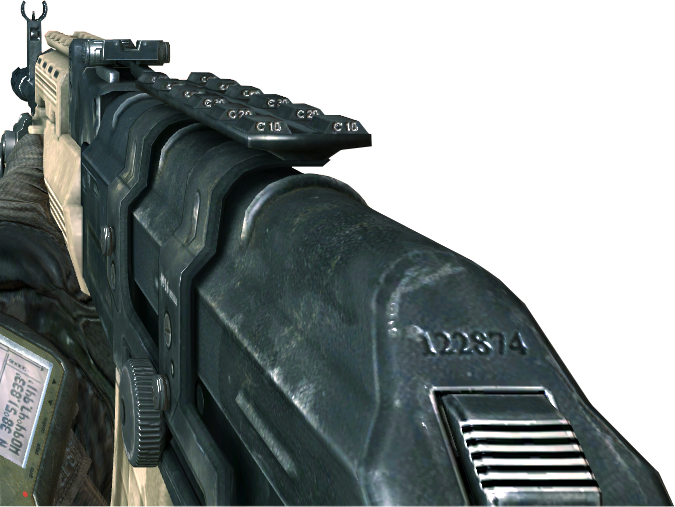
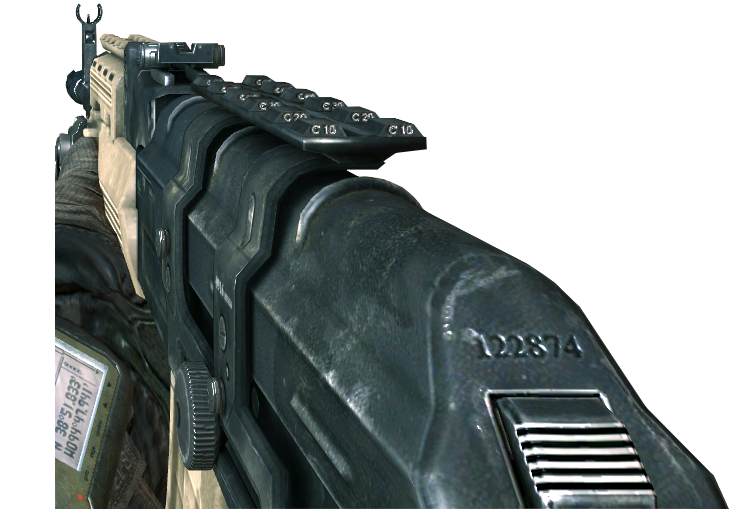
add gun muzzle flash

diff --git a/javascript/game.js b/javascript/game.js
@@ -272,16 +272,25 @@ let spawnZalvin = setInterval(() => {
 }, zalvinSpawnInterval);
 
 let gun = document.getElementById("gun");
-let offsetX = 200;
+let gunPosition = 0;
+let offsetX = 180;
+let recoilAngle = 8;
 document.addEventListener("mousemove", (event) => {
   let mouseX = event.clientX;
-  let gunPosition = mouseX + offsetX;
-  gun.style.transform = `translateX(${gunPosition}px)`;
+  gunPosition = mouseX + offsetX;
+  gun.style.transform = `translateX(${gunPosition}px) rotate(0deg)`;
 });
 
 gameArea.addEventListener("mousedown", () => {
+  gun.src = "./assets/ak47_fire.png";
+  gun.style.transform = `translateX(${gunPosition}px) rotate(${recoilAngle}deg)`;
   let gunSound = new Audio("./assets/ak47_sound.webm");
   gunSound.play();
+});
+
+gameArea.addEventListener("mouseup", () => {
+  gun.src = "./assets/ak47.png";
+  gun.style.transform = `translateX(${gunPosition}px) rotate(0deg)`;
 });
 
 let timeLeft = totalTime;

diff --git a/styles/game.css b/styles/game.css
@@ -46,7 +46,8 @@ body {
 #gun {
   height: 250px;
   position: fixed;
-  bottom: -1px;
+  bottom: 0;
+  transition: transform 0.04s ease-in;
 }
 
 #congratulations-modal {
@@ -76,7 +77,6 @@ body {
 }
 
 .modal-btn {
-  /* margin-top: 20px; */
   margin: 15px 5px;
   padding: 10px 20px;
   border: none;
